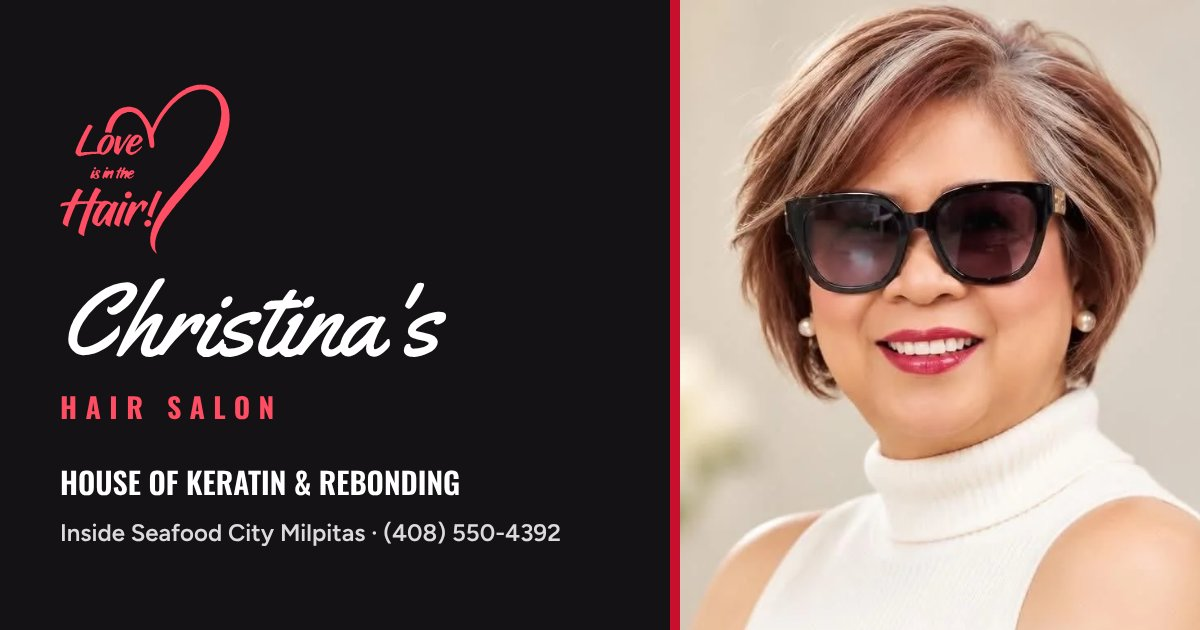
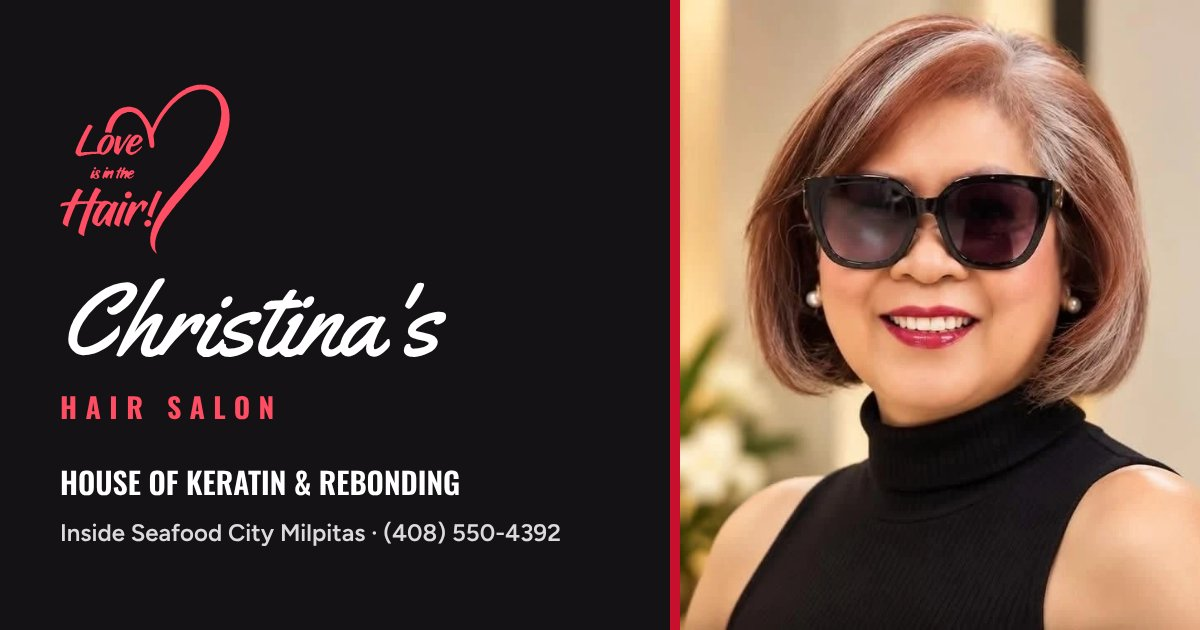
Use the black-outfit owner portrait as the main photo; white one in Our team
Claude-Session: https://claude.ai/code/session_011coCkzkfc47nqKLdfrXQuC

diff --git a/index.html b/index.html
@@ -21,11 +21,11 @@
   <meta name="twitter:card" content="summary_large_image">
   <link rel="preconnect" href="https://fonts.googleapis.com">
   <link rel="preconnect" href="https://fonts.gstatic.com" crossorigin>
-  <link rel="preload" as="image" href="assets/img/work-bixie-cut.webp" fetchpriority="high">
+  <link rel="preload" as="image" href="assets/img/owner-portrait.webp" fetchpriority="high">
   <link rel="preload" as="style" href="https://fonts.googleapis.com/css2?family=Figtree:wght@400;500;600;700&family=Kaushan+Script&family=Oswald:wght@500;600;700&family=Yellowtail&display=swap">
   <link rel="stylesheet" href="https://fonts.googleapis.com/css2?family=Figtree:wght@400;500;600;700&family=Kaushan+Script&family=Oswald:wght@500;600;700&family=Yellowtail&display=swap" media="print" onload="this.media='all'">
   <noscript><link rel="stylesheet" href="https://fonts.googleapis.com/css2?family=Figtree:wght@400;500;600;700&family=Kaushan+Script&family=Oswald:wght@500;600;700&family=Yellowtail&display=swap"></noscript>
-  <link rel="stylesheet" href="styles.css?v=1792353164">
+  <link rel="stylesheet" href="styles.css?v=1792353243">
   <script>document.documentElement.className = document.documentElement.className.replace("no-js", "js");</script>
 </head>
 <body>
@@ -76,7 +76,7 @@
     <!-- Hero: modeled on the salon's wall sign -->
     <section class="hero" id="top" data-loop>
       <figure class="hero__photo">
-        <img src="assets/img/work-bixie-cut.webp" width="800" height="770" alt="The salon's owner smiling in sunglasses and a white turtleneck, with a layered bixie cut and highlights." fetchpriority="high">
+        <img src="assets/img/owner-portrait.webp" width="632" height="760" alt="The salon's owner, smiling in sunglasses and a black turtleneck, with a chic bob cut." fetchpriority="high">
       </figure>
       <div class="hero__copy">
         <p class="hero__brand"><span class="hero__script">Christina's</span> <span class="hero__brand-sub">Hair Salon</span></p>
@@ -350,7 +350,7 @@
         <ul class="team__grid">
           <li class="person" data-reveal>
             <div class="person__photo">
-              <img src="assets/img/owner-portrait.webp" width="632" height="760" loading="lazy" alt="The salon's owner, smiling in sunglasses and a black turtleneck, with a chic bob cut.">
+              <img src="assets/img/work-bixie-cut.webp" width="800" height="770" loading="lazy" alt="The salon's owner smiling in sunglasses and a white turtleneck, with a layered bixie cut and highlights.">
             </div>
             <h3 class="person__name">Owner</h3>
           </li>
@@ -543,6 +543,6 @@
     </a>
   </div>
 
-  <script src="script.js?v=1792353164" defer></script>
+  <script src="script.js?v=1792353243" defer></script>
 </body>
 </html>
